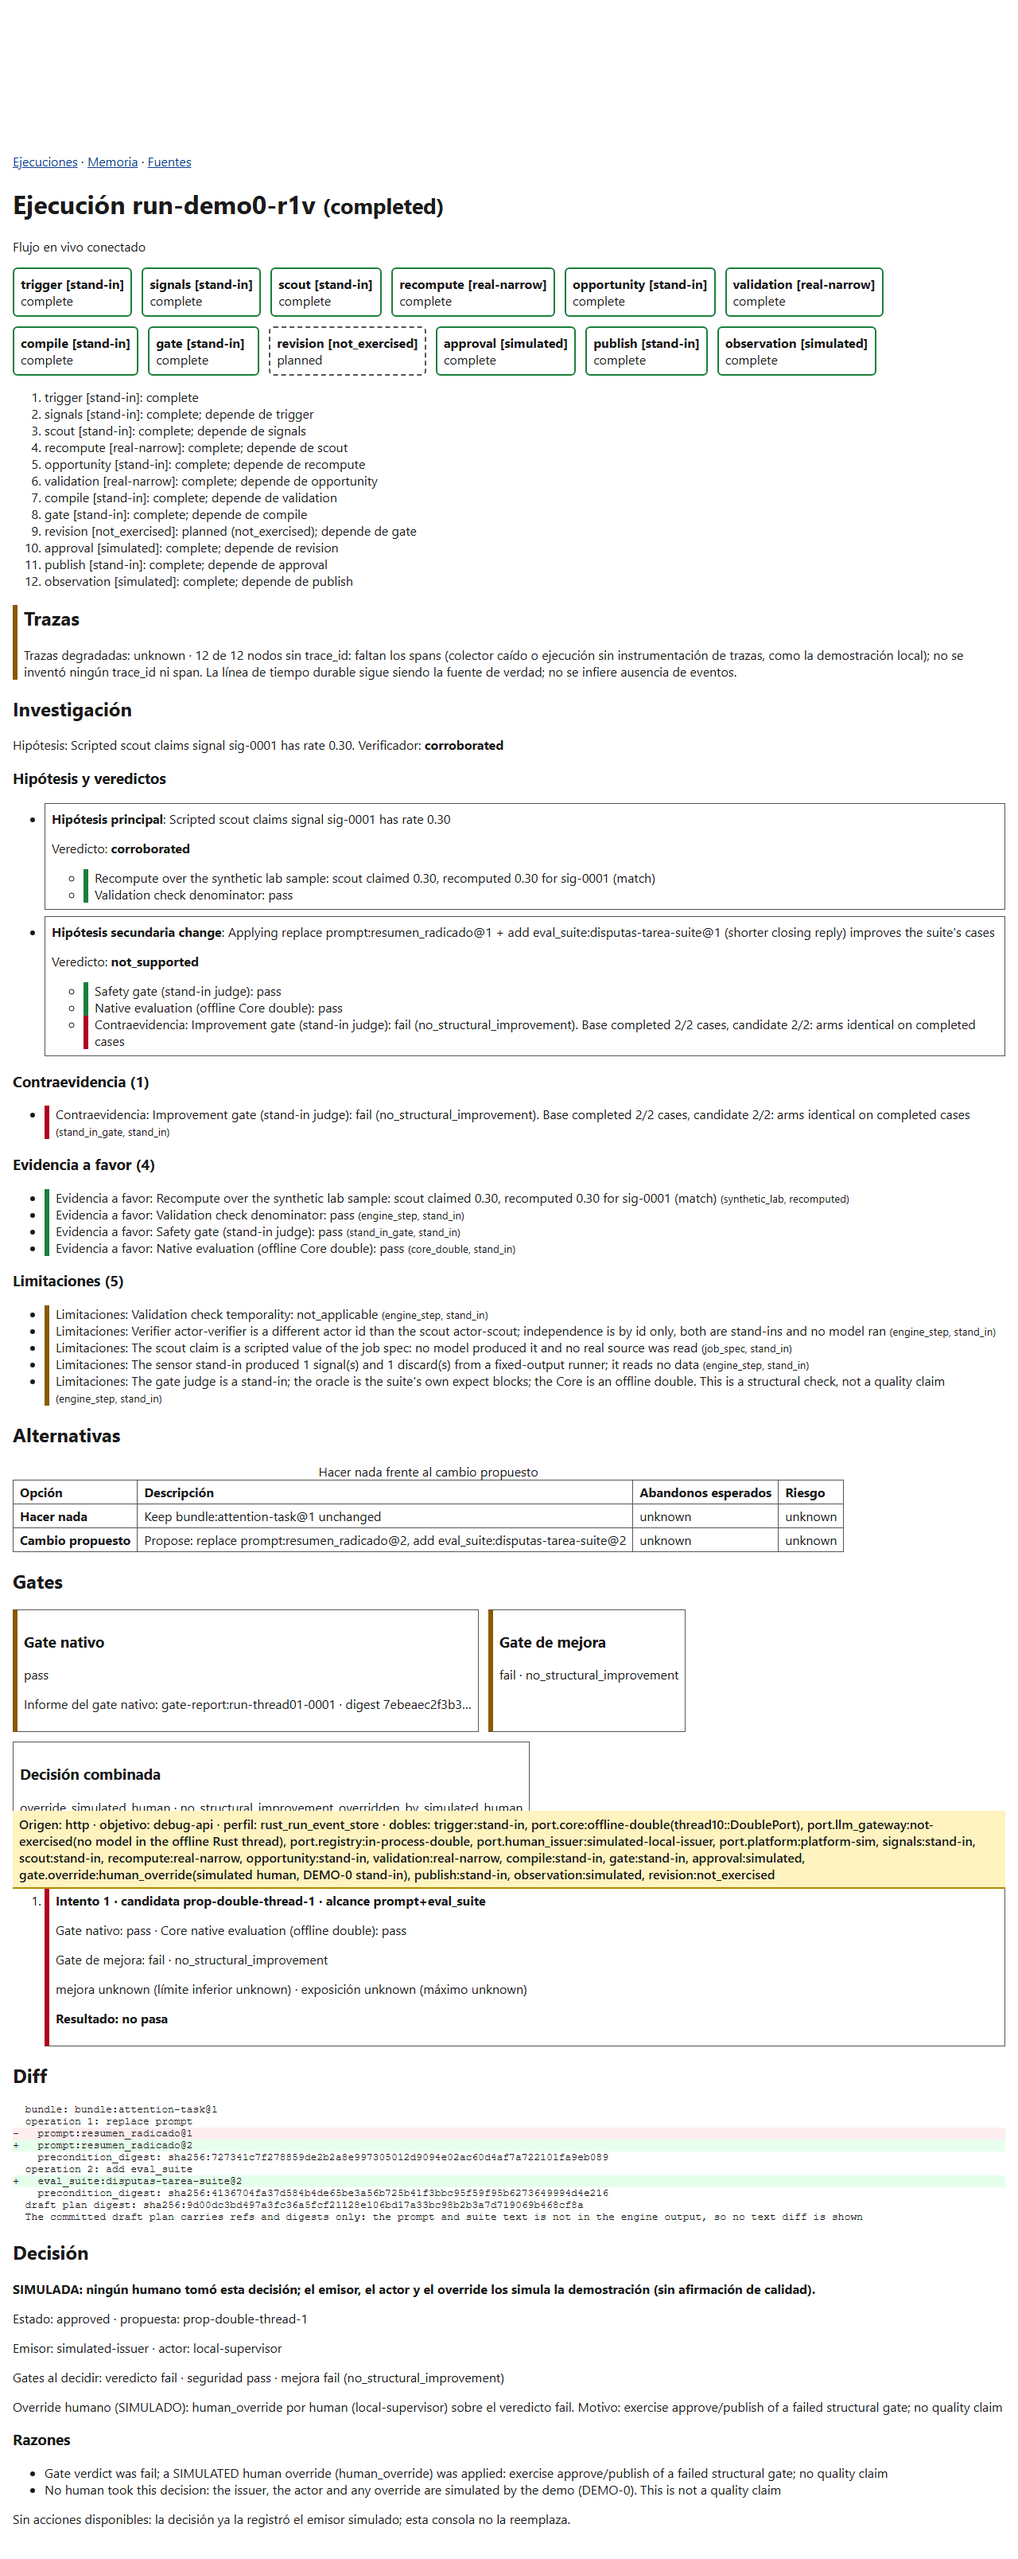
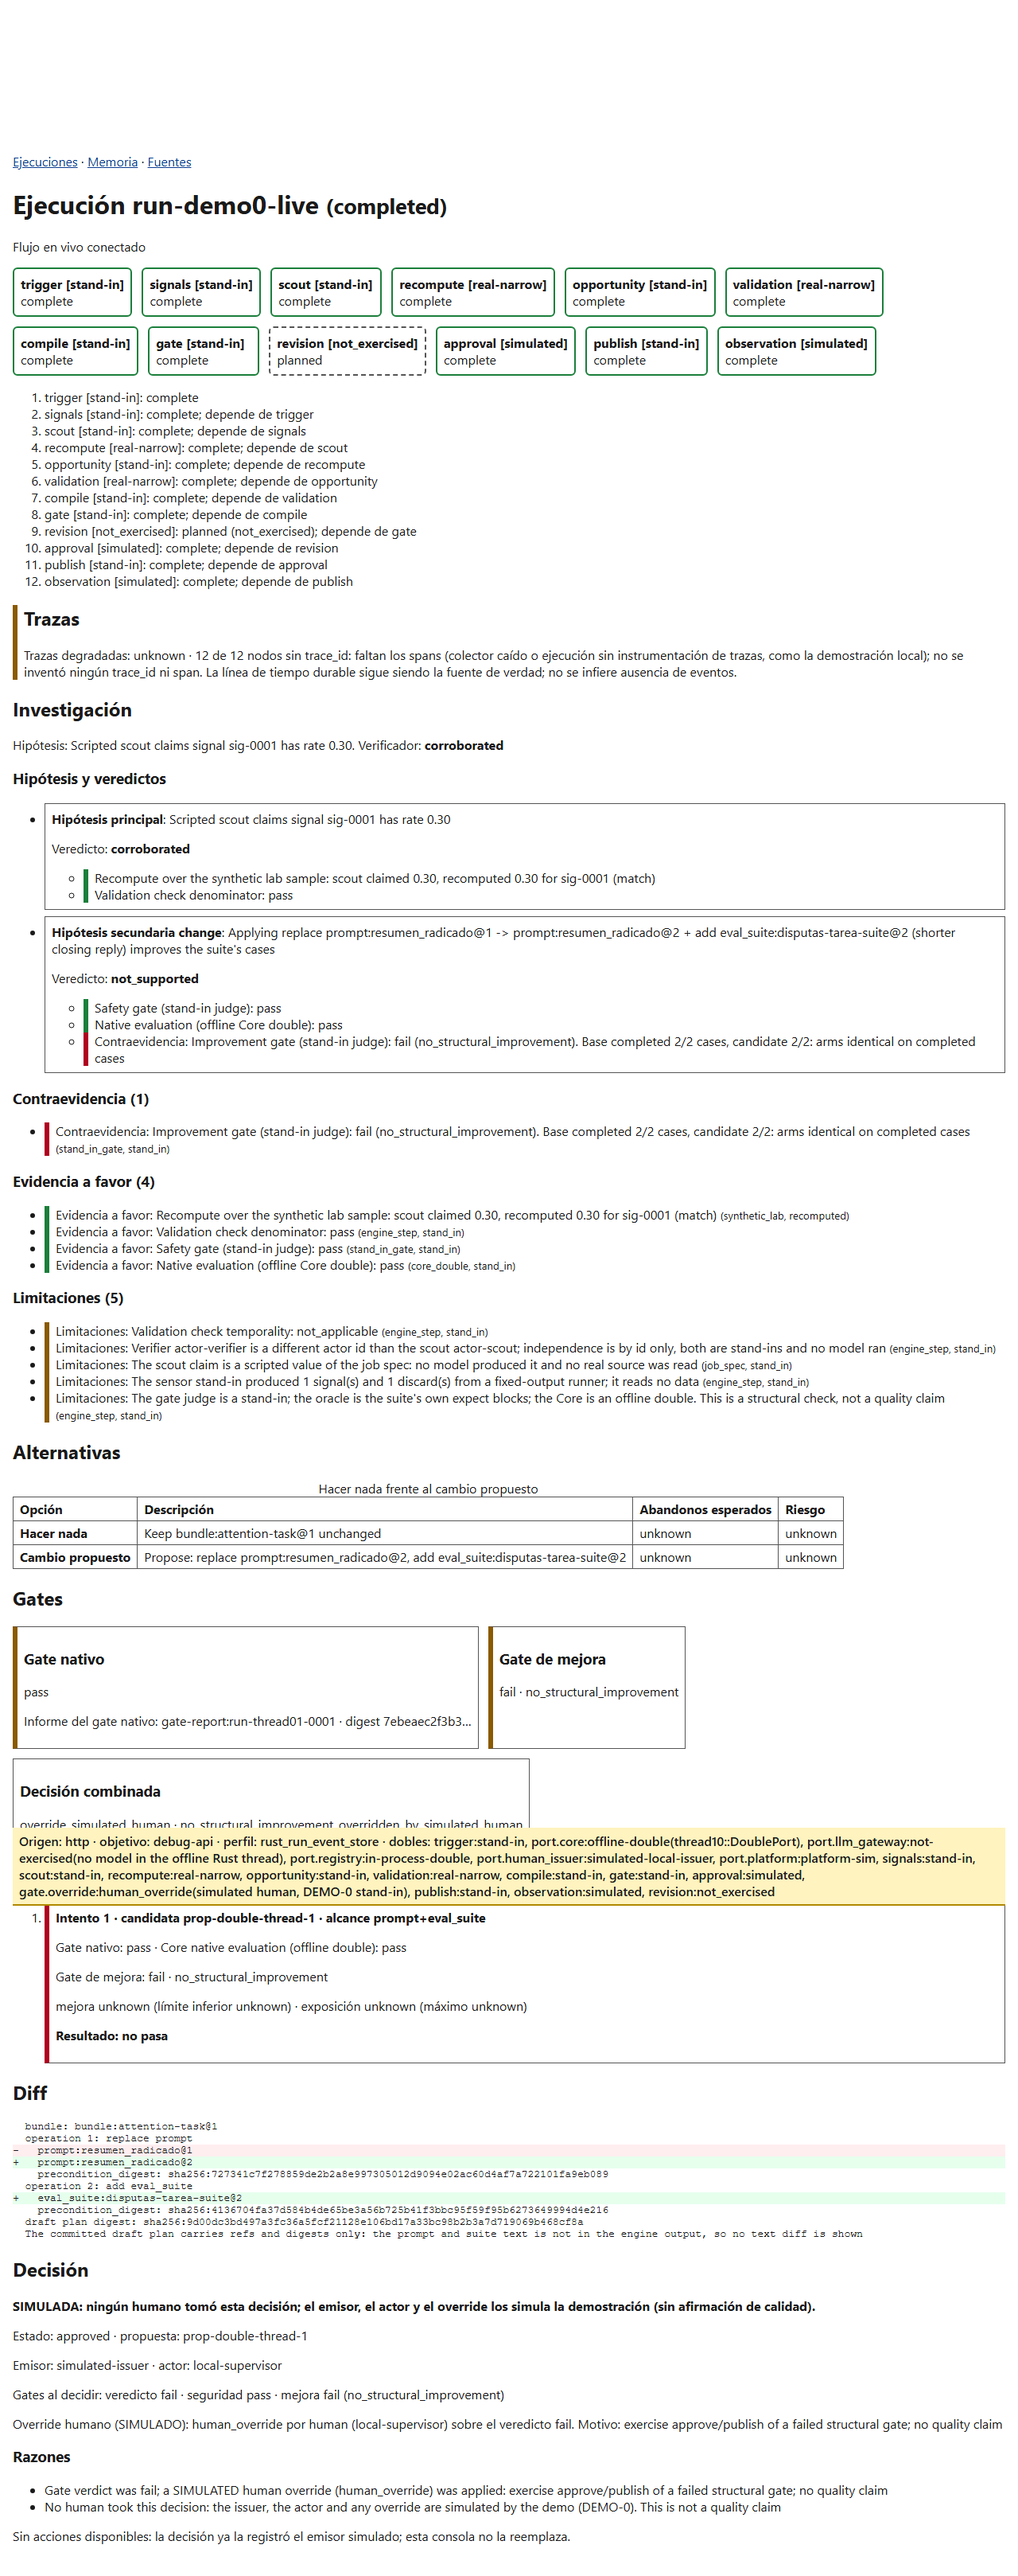
docs(demo-magic): v2 evidence - panels show what the thread committed (screenshots, API JSON, mid-run observation, README)
Team: CL

diff --git a/docs/reports/demo-magic/README.md b/docs/reports/demo-magic/README.md
@@ -24,3 +24,34 @@ the steps with labels, then holds the server until Enter/Ctrl+C and stops what i
   `pulso demo --real-core` is refused honestly (no live Core port is wired into this binary, even if a Core answers).
 - `pulso serve` keeps runs in memory unless `--store-dir`; the admin token is ephemeral, passed via the environment, never printed.
 - Hard kill of the parent PowerShell: the script starts `pulso serve --exit-on-stdin-eof` with a held-open stdin pipe, so the OS closing the pipe makes serve exit by itself (tested: `serve_exits_when_its_stdin_closes...`). A hard-killed `pulso demo` finishes or fails on its own within seconds. Ctrl+C, Enter, errors and normal exit stop both via try/finally.
+
+## v2 (R1V, 2026-10-04): the panels now show what the thread committed
+
+Before: Trazas, Investigacion, Diff, Decision and the gate details were empty (the engine computed the data, nothing streamed it).
+Now `debug_api::panels::project` (pure, one projection for both producers) turns the thread's COMMITTED payload (`thread10::Run.payload`,
+also `report.committed`) into `investigation_set`, `alternatives_set`, `diff_set`, `gates_set` and `decision_set`. `pulso demo` emits them as each
+handler commits (unchanged panels are not re-sent); `debug-api` ingest of a report that carries `committed` emits the same events.
+Nothing is generated: every string is derived from a committed field and every evidence item carries the sha256 of the committed value it summarises.
+
+- Investigation: main hypothesis = the scripted scout claim with the verifier verdict; `change` hypothesis = the compile step's operations
+  (old -> new refs) with the gate verdict; evidence supports/contradicts (recompute match, validation checks, gate, native evaluation) and
+  limits (scripted scout, fixed-output sensor, verifier independent by actor id only, stand-in judge, offline Core). A refuted claim or a
+  verifier equal to the scout shows as counter-evidence.
+- Diff: structural diff of the committed draft plan (del/add of the refs, preconditions, plan digest). The prompt/suite TEXT is not in the
+  engine output, so the last line says no text diff is shown. A denied compile produces no diff (the `change` hypothesis says `blocked(<reason>)`).
+- Gates: native = the safety gate with the offline Core evaluation in its reason, improvement = its own gate with the reason
+  (`no_structural_improvement`; the evidence says base and candidate completed the same cases: arms identical), one attempt, `report_ref` = digest of the committed gate output.
+- Decision: new route `GET /runs/{id}/decision` and a card: SIMULATED label, issuer, actor, gate state it was taken on, the human_override, reasons;
+  `available_commands` is empty (nobody can act). A blocked approval is a `blocked` card.
+- Traces: still degraded by design and now says exactly what is missing (spans; no collector or tracing in the engine). No trace_id and no span is invented.
+- Console changes (small): decision card, statement of every hypothesis, panels refresh on the new events, trace text.
+
+Verification: Rust tests (`debug-api/tests/panels.rs`, `ingest.rs`, `pulso/tests/live.rs`, `thread10/tests/on_commit.rs`); console 212 unit/component tests;
+the full real contract suite (`CONTRACT_TARGET=real`, debug-api binary with `--seed-contract` over the demo store) plus
+`tests/contract/panels.contract.test.ts` (`CONTRACT_PANEL_RUN=<run>`: zod schemas, evidence refs resolve, SIMULATED card, null trace ids) all pass;
+screenshots `v2/00..06-*.png` (headless Chromium via `v2/capture.mjs`), the built-in browser observation in `v2/live-midrun-observation.txt`, API JSON in `v2/api-*.json`.
+
+Honest gaps: the `change` hypothesis and the diff describe a structural change over a double Core; the verdict is the stand-in gate's, not quality.
+`gates.native` changed meaning from the earlier demo (it was the stand-in verdict; now safety + the offline native evaluation, with `fail` living in the improvement gate).
+The decision route is read-only: the console cannot act on a simulated decision. Evidence timestamps are the time of the commit that produced the snapshot.
+
